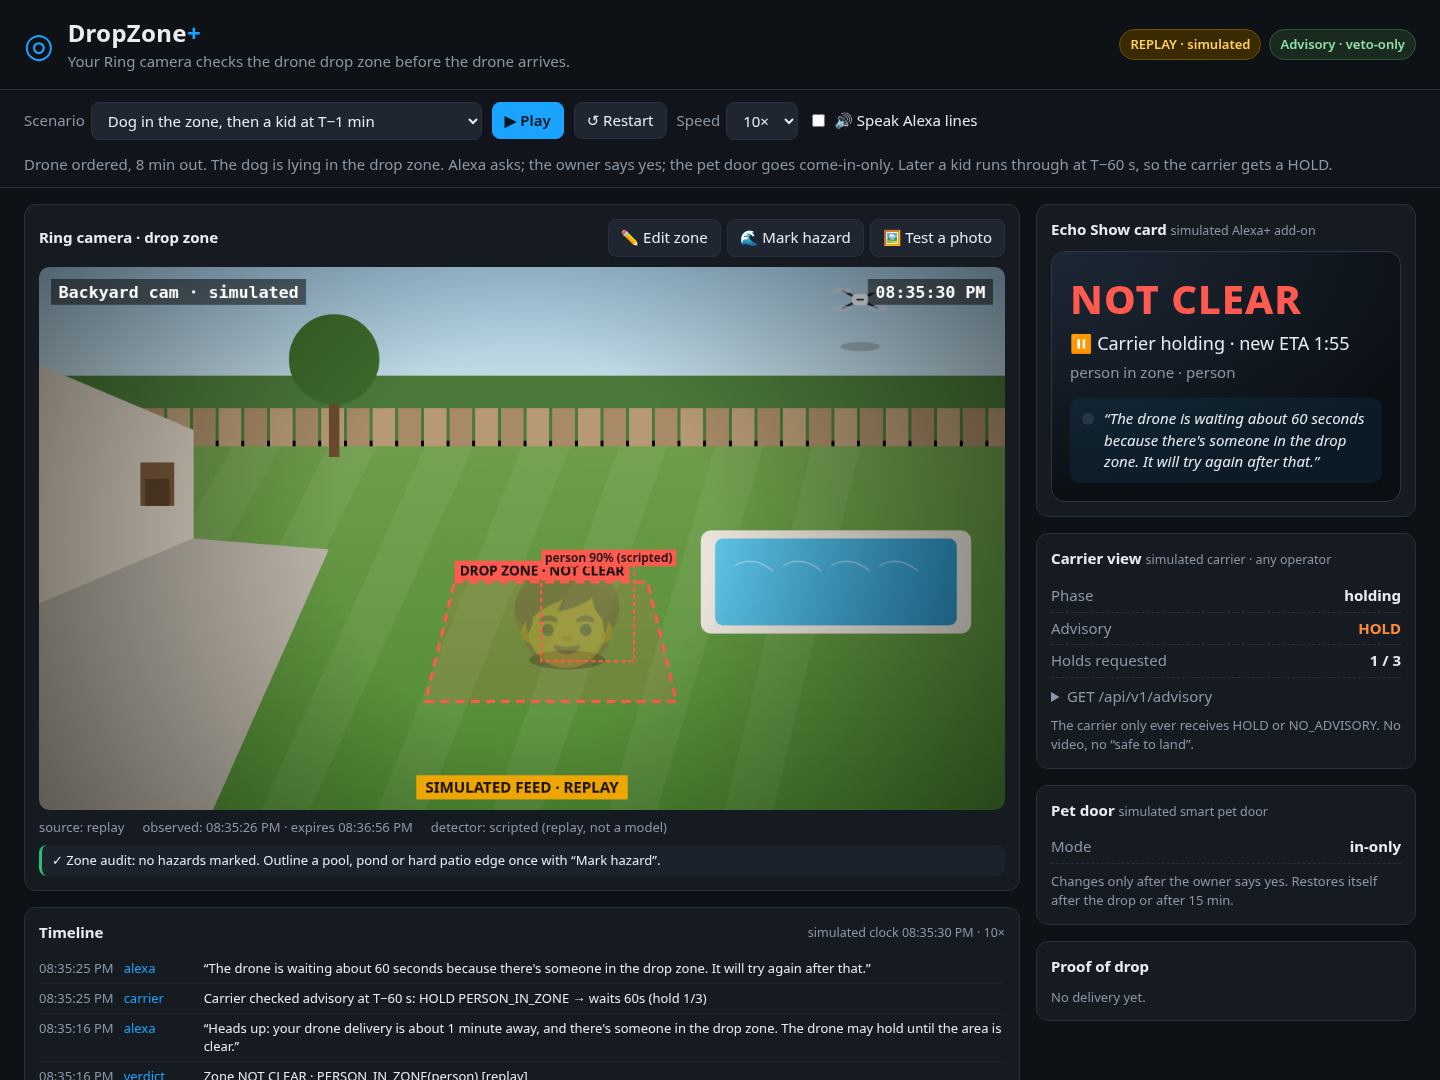
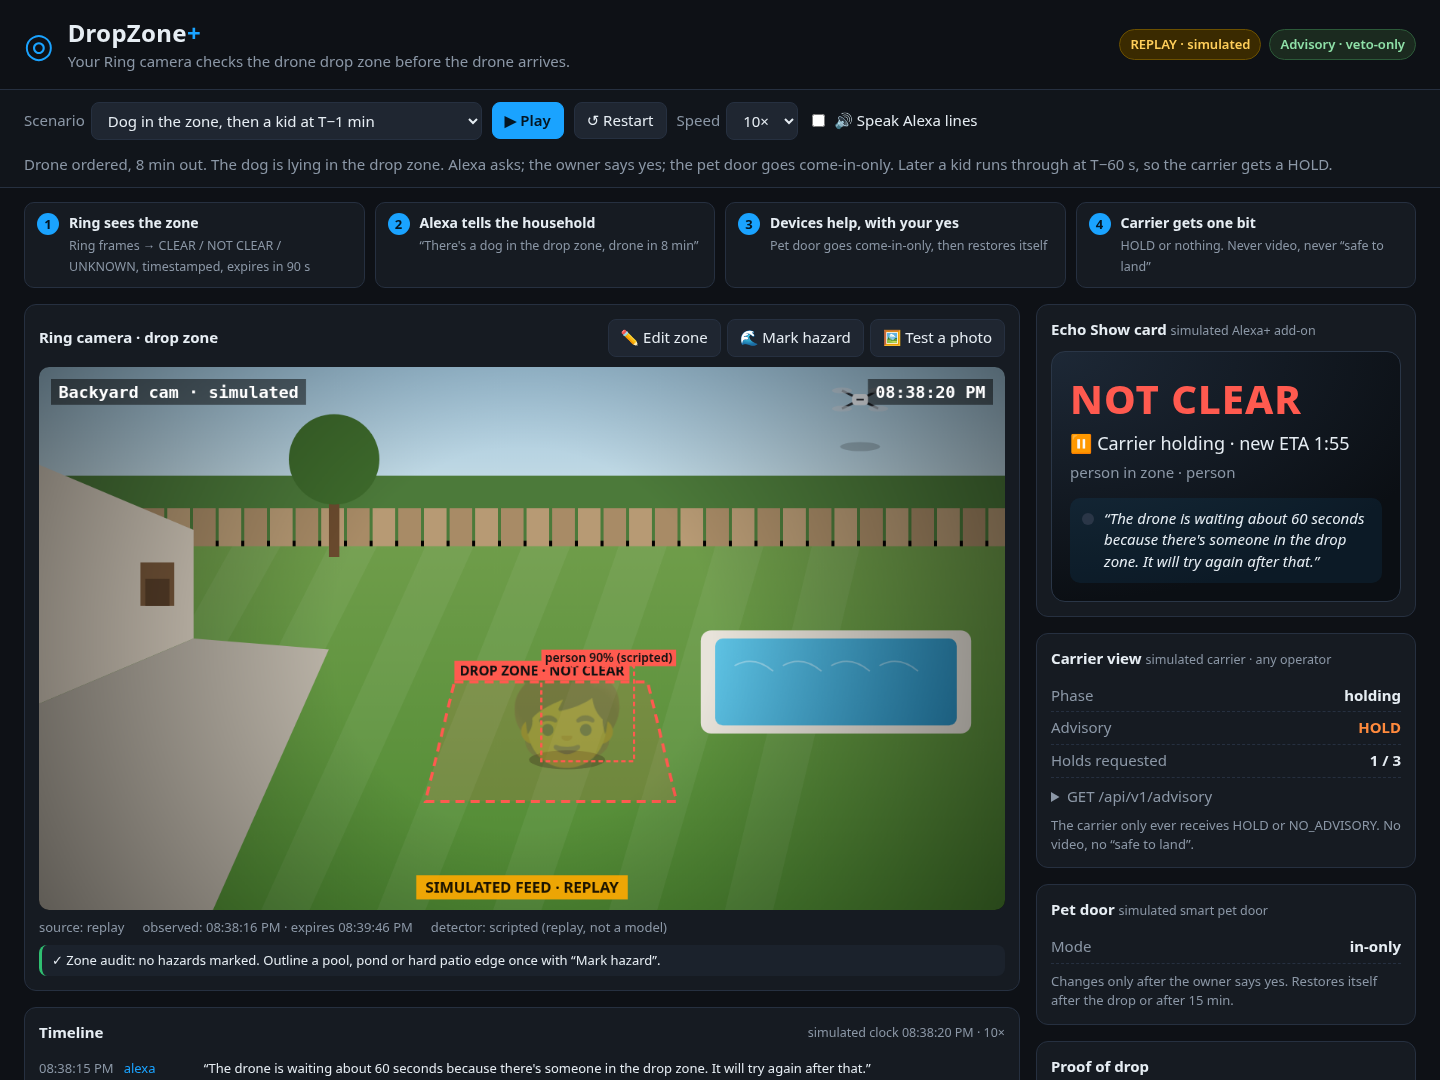
UI: how-it-works strip, live-mode frame handling, label placement

diff --git a/public/app.js b/public/app.js
@@ -192,11 +192,13 @@ function draw() {
   } else if (app.image) {
     ctx.fillStyle = '#000'; ctx.fillRect(0, 0, W, H);
     ctx.drawImage(app.image, ...app.imageRect);
+  } else {
+    drawUnreadable(ctx, app.last?.media?.reason || (app.mode === 'live' ? 'Waiting for a Ring frame…' : ''));
   }
 
   for (const h of app.hazards) drawPolygon(ctx, h.polygon, { stroke: '#4cc3ff', fill: 'rgba(76,195,255,.15)', dash: [4, 4], label: h.kind });
   const color = v.status === STATUS.CLEAR ? '#2fbf71' : v.status === STATUS.NOT_CLEAR ? '#ff5a4f' : '#f0b429';
-  drawPolygon(ctx, app.zone, { stroke: color, fill: color + '22', dash: [12, 8], width: 4, label: 'DROP ZONE · ' + v.status.replace('_', ' '), labelColor: '#111' });
+  drawPolygon(ctx, app.zone, { stroke: color, fill: color + '18', dash: [12, 8], width: 4, label: 'DROP ZONE · ' + v.status.replace('_', ' '), labelColor: '#111', labelBelow: true });
   if (v.status !== STATUS.UNKNOWN || v.reasons?.[0]?.code === 'EXPIRED') drawDetections(ctx, s.verdict?.objects, { scripted: s.verdict?.scripted });
 
   // drone + package (replay only; live drops come from a real snapshot)
@@ -302,7 +304,7 @@ async function startLive() {
   pc.addTransceiver('video', { direction: 'recvonly' });
   pc.addTransceiver('audio', { direction: 'recvonly' }); // docs say recvonly; the sample's sendrecv is not needed
   const vid = $('liveVideo');
-  pc.ontrack = (e) => { if (e.streams[0]) { vid.srcObject = e.streams[0]; app.view = 'video'; $('frameBtn').disabled = false; } };
+  pc.ontrack = (e) => { if (e.streams[0] && e.track.kind === 'video') { vid.srcObject = e.streams[0]; vid.play().catch(() => {}); app.view = 'video'; $('frameBtn').disabled = false; } };
   await pc.setLocalDescription(await pc.createOffer());
   await new Promise((r) => { if (pc.iceGatheringState === 'complete') return r(); const t = setTimeout(r, 3000); pc.onicegatheringstatechange = () => pc.iceGatheringState === 'complete' && (clearTimeout(t), r()); });
   const res = await fetch('./api/ring/whep', { method: 'POST', headers: { 'Content-Type': 'application/sdp' }, body: pc.localDescription.sdp });

diff --git a/public/style.css b/public/style.css
@@ -29,6 +29,12 @@ h1 { margin: 0; font-size: 24px; letter-spacing: .3px; }
 .controls .chk { color: var(--ink); }
 .blurb { flex-basis: 100%; margin: 4px 0 0; color: var(--mute); }
 
+.steps { list-style: none; counter-reset: s; display: grid; grid-template-columns: repeat(4, 1fr); gap: 10px; margin: 0; padding: 14px 24px 0; }
+.steps li { counter-increment: s; background: var(--panel); border: 1px solid var(--line); border-radius: 10px; padding: 10px 12px 10px 44px; position: relative; }
+.steps li::before { content: counter(s); position: absolute; left: 12px; top: 10px; width: 22px; height: 22px; border-radius: 50%; background: var(--ring); color: #041622; font-weight: 700; display: grid; place-items: center; font-size: 13px; }
+.steps b { display: block; font-size: 14px; }
+.steps span { color: var(--mute); font-size: 12.5px; }
+@media (max-width: 1000px) { .steps { grid-template-columns: 1fr 1fr; } }
 .grid { display: grid; grid-template-columns: minmax(0, 1fr) 380px; gap: 16px; padding: 16px 24px; }
 .panel { background: var(--panel); border: 1px solid var(--line); border-radius: 12px; padding: 14px; }
 .panel-h { display: flex; justify-content: space-between; align-items: center; gap: 10px; margin-bottom: 10px; flex-wrap: wrap; }

diff --git a/public/index.html b/public/index.html
@@ -47,6 +47,13 @@
     <p class="blurb">LIVE: frames come from the Ring Partner API (Ring Developer Playground). Carrier, Alexa and pet door remain simulated.</p>
   </section>
 
+  <ol class="steps">
+    <li><b>Ring sees the zone</b><span>Ring frames → CLEAR / NOT CLEAR / UNKNOWN, timestamped, expires in 90 s</span></li>
+    <li><b>Alexa tells the household</b><span>“There's a dog in the drop zone, drone in 8 min”</span></li>
+    <li><b>Devices help, with your yes</b><span>Pet door goes come-in-only, then restores itself</span></li>
+    <li><b>Carrier gets one bit</b><span>HOLD or nothing. Never video, never “safe to land”</span></li>
+  </ol>
+
   <main class="grid">
     <section class="panel cam">
       <div class="panel-h">
@@ -59,7 +66,7 @@
       </div>
       <div class="stage">
         <canvas id="cam" width="1280" height="720"></canvas>
-        <video id="liveVideo" class="hidden" playsinline muted autoplay></video>
+        <video id="liveVideo" playsinline muted autoplay></video>
         <div id="editHint" class="hint hidden"></div>
       </div>
       <div class="cam-foot">

diff --git a/public/scene.js b/public/scene.js
@@ -61,7 +61,7 @@ export function drawActor(ctx, emoji, x, y, size) {
   ctx.restore();
 }
 
-export function drawPolygon(ctx, poly, { stroke, fill, dash = [], width = 3, label, labelColor = '#fff' }) {
+export function drawPolygon(ctx, poly, { stroke, fill, dash = [], width = 3, label, labelColor = '#fff', labelBelow = false }) {
   if (!poly || poly.length < 2) return;
   ctx.save();
   ctx.beginPath();
@@ -70,7 +70,8 @@ export function drawPolygon(ctx, poly, { stroke, fill, dash = [], width = 3, lab
   if (fill) { ctx.fillStyle = fill; ctx.fill(); }
   ctx.setLineDash(dash); ctx.lineWidth = width; ctx.strokeStyle = stroke; ctx.stroke();
   if (label) {
-    const [x, y] = poly[0];
+    let [x, y] = poly[0];
+    if (labelBelow) { x = Math.min(...poly.map((p) => p[0])); y = Math.max(...poly.map((p) => p[1])) + 34 / H; }
     ctx.font = '700 18px system-ui, sans-serif';
     const tw = ctx.measureText(label).width;
     ctx.setLineDash([]); ctx.fillStyle = stroke; ctx.fillRect(x * W, y * H - 28, tw + 14, 26);
